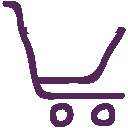
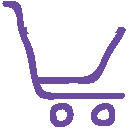
s

Changed region(s): [[0.0, 0.0, 1.0, 1.0]]

diff --git a/frontend/src/components/products/AllProducts.js b/frontend/src/components/products/AllProducts.js
@@ -31,21 +31,21 @@ class AllProducts extends React.Component {
   render() {
     return (
       <div className="products-page change-brightness ">
-        <div className="product-container change-brightness">
+        <div className="product-container">
           {this.state.products.slice(0).reverse().map(product => {
             return <Link to={`/products/${product._id}`} key={product._id}>
-              <div className="product-wrapper change-brightness" onMouseEnter={() => {
+              <div className="product-wrapper" onMouseEnter={() => {
                 this.otherPreviewImage(product._id);
               }}
               onMouseLeave={this.backToMainProductImage}>
-                <div className="product-preview-image change-brightness"
+                <div className="product-preview-image"
                   style={{ backgroundImage: `url(${this.state.hoveredProductId === product._id ? product.images[0].images[1] : product.images[0].images[0]})` }}>
                 </div>
-                <div className="product-preview-name change-brightness">{product.name}</div>
-                <div className="product-preview-price-wrapper change-brightness">
-                  <div className="product-preview-price change-brightness">£{product.price / 100}</div>
+                <div className="product-preview-name">{product.name}</div>
+                <div className="product-preview-price-wrapper">
+                  <div className="product-preview-price">£{product.price / 100}</div>
                   {product.discount &&
-                    <div className="product-preview-discount change-brightness">-{product.discount}%</div>
+                    <div className="product-preview-discount">-{product.discount}%</div>
                   }
                 </div>
               </div>

diff --git a/frontend/src/components/common/BasketIcon.js b/frontend/src/components/common/BasketIcon.js
@@ -7,7 +7,7 @@ const BasketIcon = ({ basketLength }) => (
     {isAuthenticated() &&
     <Link to="/basket">
       <div className="basket-icon-wrapper change-brightness">
-        <img src="https://res.cloudinary.com/nuhippies/image/upload/v1639597935/Nu%20Hippies/icons/basket_v8tsou.png" />
+        <img src="https://res.cloudinary.com/nuhippies/image/upload/v1645404307/Nu%20Hippies/icons/basket_nnjkab.png" />
         <div className="basket-number">{basketLength}</div>
       </div>
     </Link>
@@ -16,7 +16,7 @@ const BasketIcon = ({ basketLength }) => (
     {!isAuthenticated() &&
     <Link to="/entering">
       <div className="basket-icon-wrapper change-brightness">
-        <img src="https://res.cloudinary.com/nuhippies/image/upload/v1639597935/Nu%20Hippies/icons/basket_v8tsou.png" />
+        <img src="https://res.cloudinary.com/nuhippies/image/upload/v1645404307/Nu%20Hippies/icons/basket_nnjkab.png" />
         <div className="basket-number">{basketLength}</div>
       </div>
     </Link>

diff --git a/frontend/src/styles/main.scss b/frontend/src/styles/main.scss
@@ -99,7 +99,7 @@ button{
   .home-logo{
       width: 35px;
       height: 35px;
-      background-image: url("https://res.cloudinary.com/nuhippies/image/upload/v1639597824/Nu%20Hippies/icons/logo_h5vng1.png");
+      background-image: url("https://res.cloudinary.com/nuhippies/image/upload/v1645404144/Nu%20Hippies/icons/logopure_r95ln9.png");
       background-repeat: no-repeat;
       background-size: contain;
       background-position: center;
@@ -852,7 +852,7 @@ h1{
   border: 1px solid $text-color;
   padding: 5px 20px;
   cursor: pointer;
-  margin-right: 15px;
+  margin: 0 8px;
 }
 .product-size{
   margin: 13px 0 16px 0;
@@ -870,7 +870,7 @@ h1{
   margin-top: 20px;
 }
 .product-color-wrapper{
-  margin-right: 10px;
+  margin: 0 8px;
   border: 1px solid $text-color;
   padding: 10px 20px;
   cursor: pointer;
@@ -912,6 +912,7 @@ h1{
 .product-description{
   width: 70vw;
   margin-top: 40px;
+  line-height: 19px;
   h1{
     font-weight: 300;
     margin-bottom: 10px;

diff --git a/frontend/src/styles/navbar.scss b/frontend/src/styles/navbar.scss
@@ -45,7 +45,7 @@
     position: absolute;
     left: 20px;
     top: 20px;
-    background: url('https://res.cloudinary.com/nuhippies/image/upload/v1644803674/Nu%20Hippies/icons/tshirt_1_rtmo2r.png');
+    background: url('https://res.cloudinary.com/nuhippies/image/upload/v1645404934/Nu%20Hippies/icons/tshirt_3_w34l7k.png');
     background-size: cover;
     width: 50px;
     height: 50px;
@@ -89,7 +89,7 @@ h3{
 }
 
 .logo{
-  background-image: url("https://res.cloudinary.com/nuhippies/image/upload/v1644812694/Nu%20Hippies/icons/logo2_amylax.png");
+  background-image: url("https://res.cloudinary.com/nuhippies/image/upload/v1645404007/Nu%20Hippies/icons/logo3_xfs0we.png");
   background-repeat: no-repeat;
   width: 150px;
   height: 150px;

diff --git a/frontend/src/components/common/Navbar.js b/frontend/src/components/common/Navbar.js
@@ -94,7 +94,7 @@ class Navbar extends React.Component {
                 }
 
                 {this.state.dotMenuText !== 0 &&
-                <img className="hum-img" src="https://res.cloudinary.com/nuhippies/image/upload/v1644693598/Nu%20Hippies/icons/tshirt_ybntiy.png" />
+                <img className="hum-img" src="https://res.cloudinary.com/nuhippies/image/upload/v1645405366/Nu%20Hippies/icons/tshirt2_egk1xv.png" />
                 }
               
                 <ul className="list">

diff --git a/frontend/src/styles/responsiveness.scss b/frontend/src/styles/responsiveness.scss
@@ -121,6 +121,10 @@
   }
   .name-price-wrapper{
     align-items: center!important;
+    margin: 0 auto!important;
+  }
+  .product-description{
+    text-align: center;
   }
   .authorization-wrapper{
     font-size: 19px!important;
@@ -393,7 +397,7 @@
         flex-direction: column;
         nav {
           &:nth-of-type(1){
-            margin-top: 20px!important;
+            margin-top: 40px!important;
           }
           &:nth-of-type(2){
             margin-bottom: 90px!important;

diff --git a/frontend/public/stylesheets/screen.css b/frontend/public/stylesheets/screen.css
@@ -20,7 +20,7 @@
 /* line 28, ../sass/screen.scss */
 .home-menu .home-menu-button-text {
   font-size: 7px;
-  color: #501d59;
+  color: #6a4ba0;
   font-weight: 400;
 }
 
@@ -83,7 +83,7 @@
 /* line 68, ../sass/screen.scss */
 /* line 80, ../sass/screen.scss */
 .home-menu ul li:nth-child(odd) a {
-  background: #501d59;
+  background: #6a4ba0;
 }
 
 /* line 75, ../sass/screen.scss */

diff --git a/frontend/src/components/common/Footer.js b/frontend/src/components/common/Footer.js
@@ -22,7 +22,6 @@ const Footer = () => (
         <Link to="/contact"><li>Contact Us</li></Link>
         <Link to="/terms"><li>Terms and Conditions</li></Link>
         <Link to="/privacy"><li>Privacy Policy</li></Link>
-        <li>Delivery</li>
         <li>Discount Game Rules</li>
       </ul>
     </div>

diff --git a/frontend/src/styles/variables.scss b/frontend/src/styles/variables.scss
@@ -9,7 +9,7 @@ $gray-color: #747474;
 $navbar-height: 150px;
 
 //Second Color Variant
-$dark-color: rgba(120, 75, 160, 1);
+$dark-color: #604ba0;
 $alternative-dark-color:rgb(80,29,89);
 $second-color: rgb(250,203,82);
 $third-color: rgb(82,193,199);

diff --git a/frontend/public/sass/screen.scss b/frontend/public/sass/screen.scss
@@ -6,7 +6,7 @@
 
 //First Color Variant
 $first-color:rgb(82,193,199);
-$second-color: rgb(80,29,89);
+$second-color: #6a4ba0;
 $third-color: #FF1510;
 $fourth-color: #FFE400;
 
